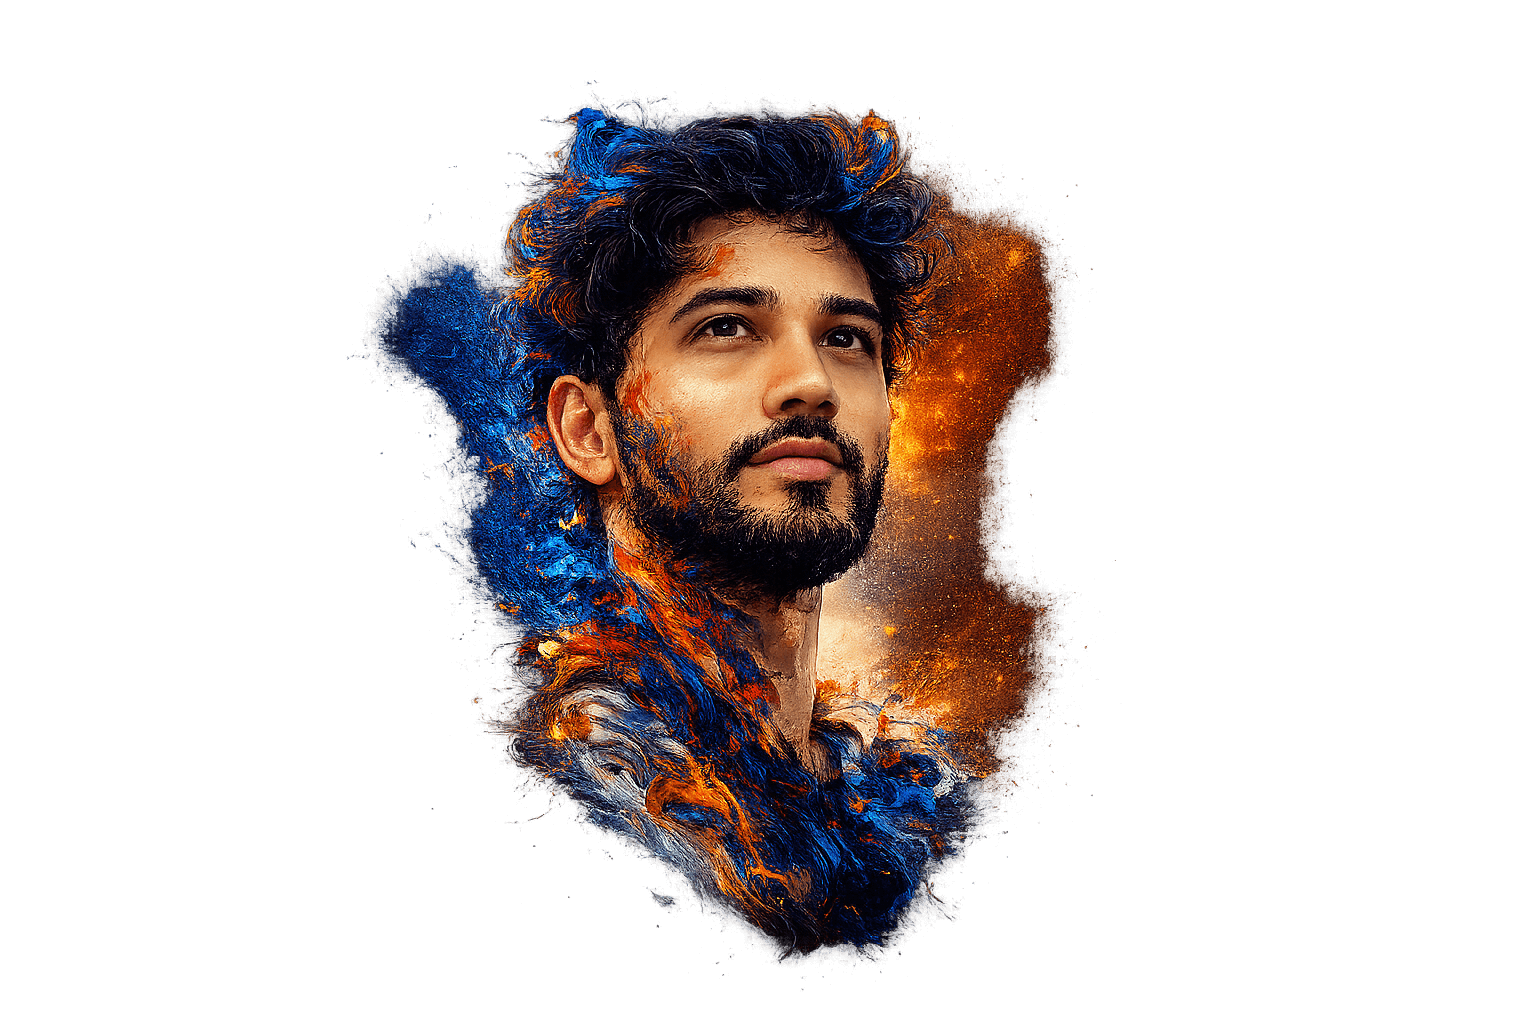
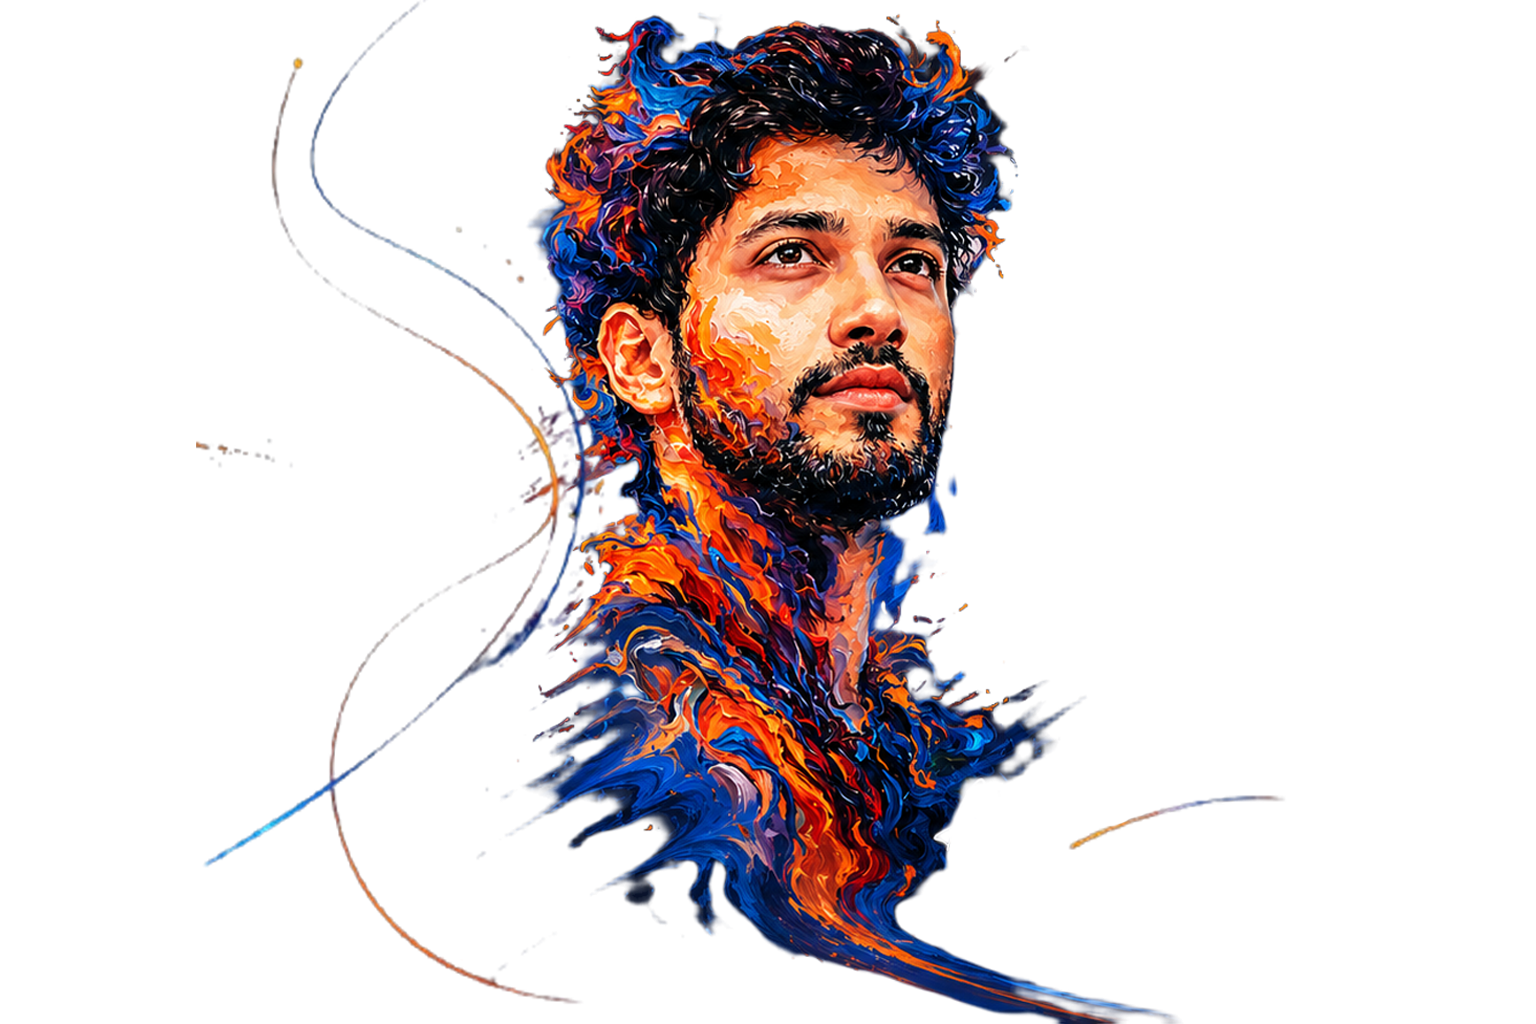
Some Change Make

diff --git a/assets/css/style.css b/assets/css/style.css
@@ -365,25 +365,31 @@ button { cursor: pointer; font-family: inherit; border: none; background: none; 
   border: 1px solid var(--border);
   border-radius: var(--radius-lg);
   backdrop-filter: blur(16px);
-  padding: 28px 36px;
+  padding: 22px 32px;
   display: flex;
   align-items: center;
-  gap: 28px;
+  gap: 24px;
   margin-top: 32px;
   box-shadow: var(--shadow);
 }
-.stat-item { text-align: center; flex: 1; display: flex; flex-direction: column; align-items: center; }
-.stat-icon { color: var(--orange); font-size: 1.5rem; margin-bottom: 6px; }
+.stat-item { text-align: center; flex: 1; display: flex; flex-direction: column; align-items: center; gap: 2px; }
+.stat-icon { color: var(--orange); font-size: 1.3rem; margin-bottom: 4px; }
+.stat-num-row {
+  display: flex;
+  align-items: baseline;
+  justify-content: center;
+  line-height: 1;
+}
 .stat-num {
   font-family: var(--font-display);
-  font-size: 2.6rem;
+  font-size: 2.2rem;
   font-weight: 800;
   color: var(--text-1);
   line-height: 1;
 }
-.stat-plus { font-family: var(--font-display); font-weight: 800; color: var(--orange); font-size: 2.2rem; vertical-align: baseline; }
-.stat-label { font-size: 0.82rem; color: var(--text-3); margin-top: 6px; text-align: center; }
-.stat-divider { width: 1px; height: 56px; background: var(--border); flex-shrink: 0; }
+.stat-plus { font-family: var(--font-display); font-weight: 800; color: var(--orange); font-size: 1.8rem; line-height: 1; }
+.stat-label { font-size: 0.78rem; color: var(--text-3); margin-top: 5px; text-align: center; }
+.stat-divider { width: 1px; height: 52px; background: var(--border); flex-shrink: 0; }
 
 /* Scroll Indicator */
 .scroll-indicator {

diff --git a/index.html b/index.html
@@ -42,6 +42,10 @@
   }
   </script>
 
+  <!-- Favicon -->
+  <link rel="icon" type="image/svg+xml" href="./assets/images/favicon.svg">
+  <link rel="shortcut icon" href="./assets/images/favicon.svg">
+
   <!-- Fonts -->
   <link rel="preconnect" href="https://fonts.googleapis.com">
   <link rel="preconnect" href="https://fonts.gstatic.com" crossorigin>
@@ -137,25 +141,24 @@
           -->
           <img src="./assets/images/portrait.png" alt="Ahsan Jannat – SEO AEO GEO Expert" class="portrait-img" id="portraitImg">
           <div class="portrait-ring"></div>
-          
         </div>
 
         <div class="stats-card" data-reveal="up">
           <div class="stat-item">
             <i class="fa-solid fa-briefcase stat-icon"></i>
-            <strong class="stat-num" data-target="3">0</strong><span class="stat-plus">+</span>
+            <div class="stat-num-row"><strong class="stat-num" data-target="3">0</strong><span class="stat-plus">+</span></div>
             <p class="stat-label">Years Experience</p>
           </div>
           <div class="stat-divider"></div>
           <div class="stat-item">
             <i class="fa-solid fa-chart-line stat-icon"></i>
-            <strong class="stat-num" data-target="50">0</strong><span class="stat-plus">+</span>
+            <div class="stat-num-row"><strong class="stat-num" data-target="50">0</strong><span class="stat-plus">+</span></div>
             <p class="stat-label">Projects Completed</p>
           </div>
           <div class="stat-divider"></div>
           <div class="stat-item">
             <i class="fa-solid fa-ranking-star stat-icon"></i>
-            <strong class="stat-num" data-target="300">0</strong><span class="stat-plus">+</span>
+            <div class="stat-num-row"><strong class="stat-num" data-target="300">0</strong><span class="stat-plus">+</span></div>
             <p class="stat-label">Keywords Ranked</p>
           </div>
         </div>
@@ -715,7 +718,7 @@
   <!-- ========== FOOTER ========== -->
   <footer class="footer">
     <div class="container footer-inner">
-      <p class="footer-copy">&copy; 2026 <strong>Ahsan Jannat</strong>. All rights reserved.</p>
+      <p class="footer-copy">&copy; 2025 <strong>Ahsan Jannat</strong>. All rights reserved.</p>
       <div class="footer-links">
         <a href="#home">Home</a>
         <a href="#services">Services</a>

diff --git a/assets/css/responsive.css b/assets/css/responsive.css
@@ -77,11 +77,11 @@
   .stats-card {
     flex-direction: row;
     justify-content: space-evenly;
-    gap: 12px;
-    padding: 20px 16px;
+    gap: 10px;
+    padding: 18px 14px;
   }
-  .stat-num { font-size: 2rem; }
-  .stat-plus { font-size: 1.8rem; }
+  .stat-num { font-size: 1.7rem; }
+  .stat-plus { font-size: 1.4rem; }
 
   .scroll-indicator { display: none; }
 